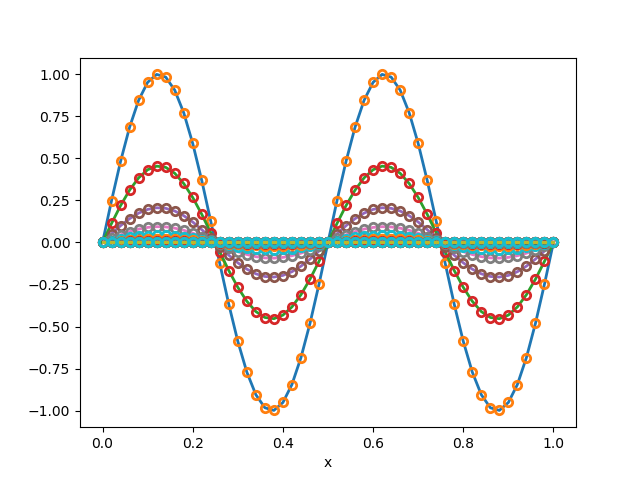
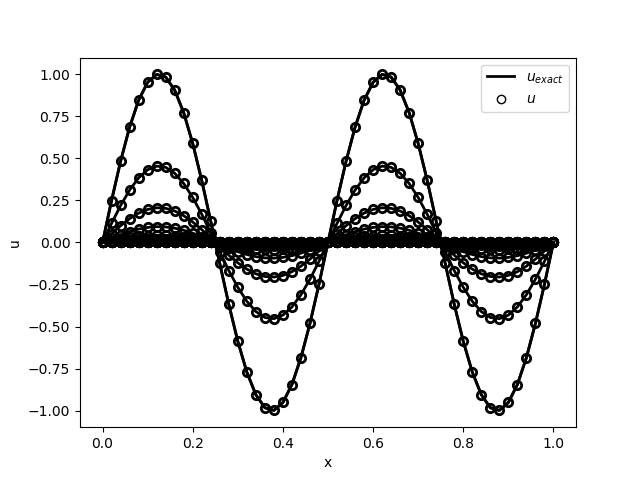
updated post-processing

diff --git a/python_codes_aghor/heat_and_wave_codes/heat_CN_fdm/post_process.py b/python_codes_aghor/heat_and_wave_codes/heat_CN_fdm/post_process.py
@@ -37,11 +37,15 @@ for n in range(0, Nt):
         log_value_at_a_point[n/nsave] = math.log(u[10]/ (float)(u_0[10]));
         tsave[n/nsave] = t[n]
 
-        ax.plot(x, u_exact, '-', linewidth=2.0, label = r'$u_{exact}$' )  # Plot the exact solution
-        ax.plot(x, u, 'o', linewidth=2.0, fillstyle='none', markeredgewidth = 2, label = r'$u$')  # Plot the numerical solution
-        ax.set_xlabel('x')  # Set x label
+        if n==0:
+            ax.plot(x, u_exact, '-k', linewidth=2.0, label = r'$u_{exact}$' )  # Plot the exact solution
+            ax.plot(x, u, 'ok', linewidth=2.0, fillstyle='none', markeredgewidth = 1, label = r'$u$')  # Plot the numerical solution
+        ax.plot(x, u_exact, '-k', linewidth=2.0 )  # Plot the exact solution
+        ax.plot(x, u, 'ok', linewidth=2.0, fillstyle='none', markeredgewidth = 2)  # Plot the numerical solution
 
-#ax.legend()
+ax.set_xlabel('x')  # Set x label
+ax.set_ylabel('u')  # Set y label
+ax.legend()
 plt.savefig('ut.png')
 #######################################
 # calculate numerical sigma = dissipation rate

diff --git a/python_codes_aghor/heat_and_wave_codes/heat_CN_fdm/README.md b/python_codes_aghor/heat_and_wave_codes/heat_CN_fdm/README.md
@@ -10,5 +10,9 @@
 * ```heat_CN_functions.py``` defines the important matrices as well as boundary conditions. It also contains a code to solve Ax = b using QR factorization.
 * ```heat_CN_main.py``` is the main file that does the time marching and saves the data in the data folder.
 * ```post_process.py``` does post processing - reading and plotting the data, comparing the numerical solution with the exact one, and getting the damping rate out.
+* Exact solution vs numerical solution
+![compare_u](ut.png)
 
+* Exact $\sigma$ vs numerical damping rate
+![compare_sigma](sigma_compare.png)
 
